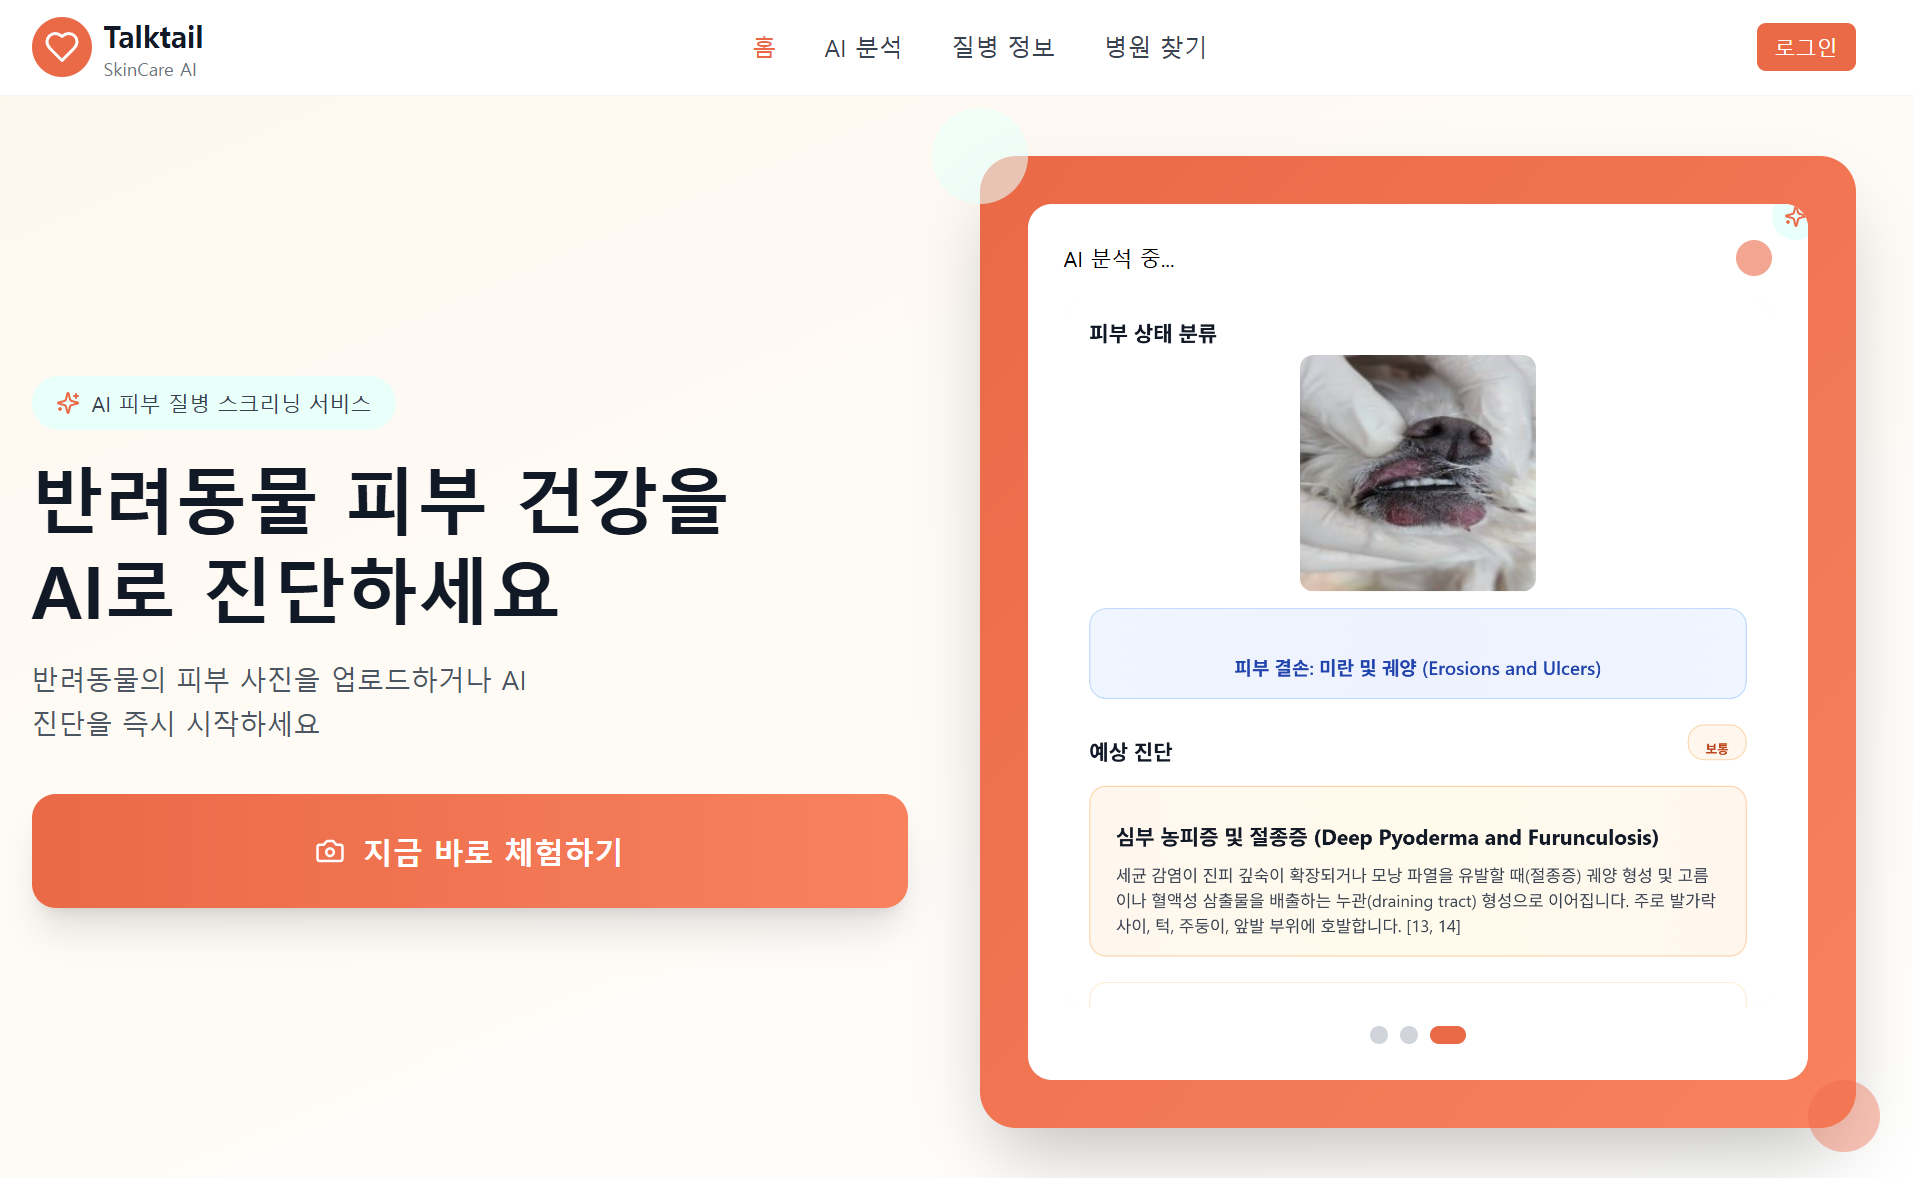
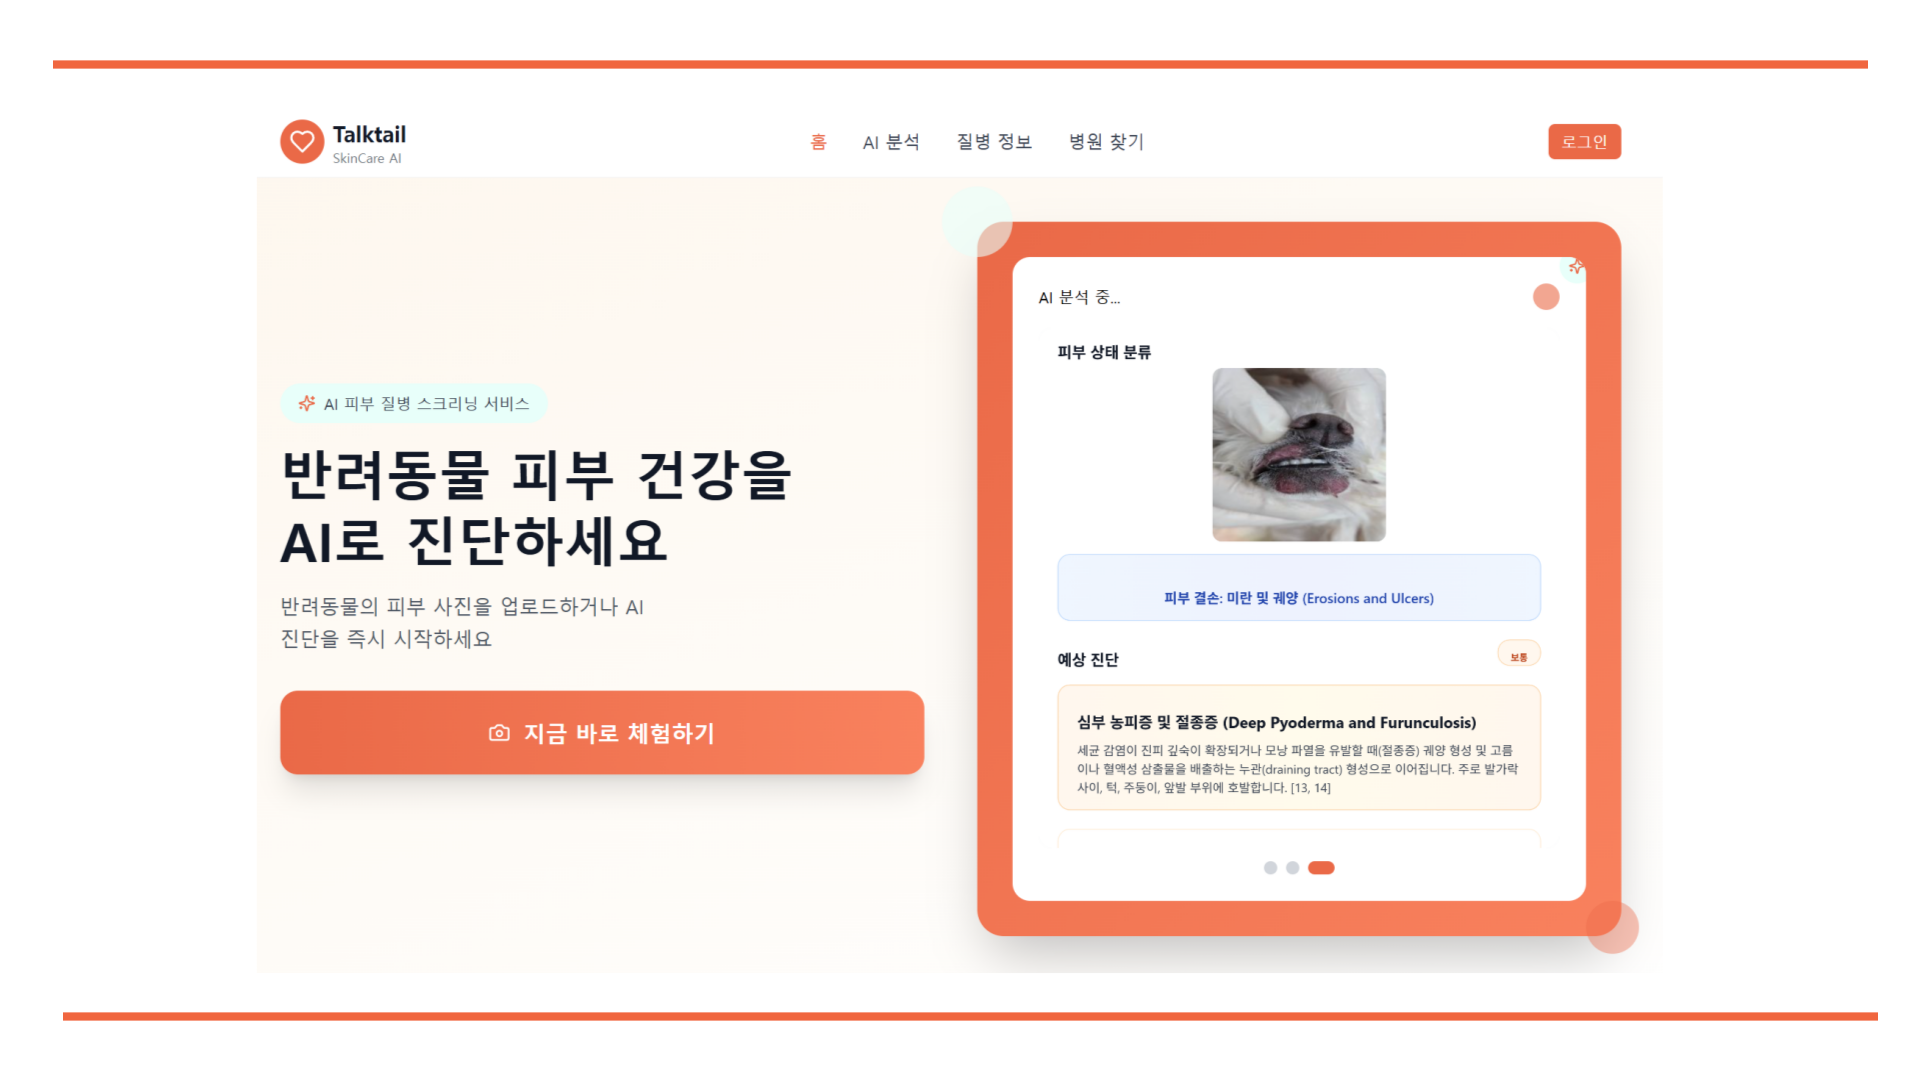
0923 commit_3

Changed region(s): [[0.0, 0.0917, 0.9869, 1.0], [0.0, 0.0, 0.9869, 0.0917], [0.1234, 0.0917, 0.2159, 0.1528]]

diff --git a/src/components/styles/Service.css b/src/components/styles/Service.css
@@ -1,6 +1,6 @@
 .Service_container {
   width: 100%;
-  height: 50.88vw;
+  height: 52.88vw;
   display: flex;
   justify-content: center;
   align-items: center;
@@ -76,7 +76,7 @@
 }
 
 .Service_container .content_box2 {
-  height: 15.8vw;
+  height: 16.8vw;
   display: flex;
   align-items: center;
   flex-direction: column;
@@ -89,7 +89,7 @@
 
 .Service_container .img_box {
   width: 100%;
-  height: 14.6vw;
+  height: 17.6vw;
   display: flex;
   position: relative;
 }

diff --git a/src/mobileComponents/styles/mobileService.css b/src/mobileComponents/styles/mobileService.css
@@ -38,14 +38,10 @@
 }
 
 .mobile_service_section .content .img_box {
-  width: 30.77vw;
-  height: 30.77vw;
+  width: 68.77vw;
+  height: 44.77vw;
   margin: 0 auto;
   margin-top: 8.2vw;
-}
-
-.mobile_service_section div:nth-child(4) .img_box {
-  width: 42.4vw;
 }
 
 .mobile_service_section .content .img_box img {
